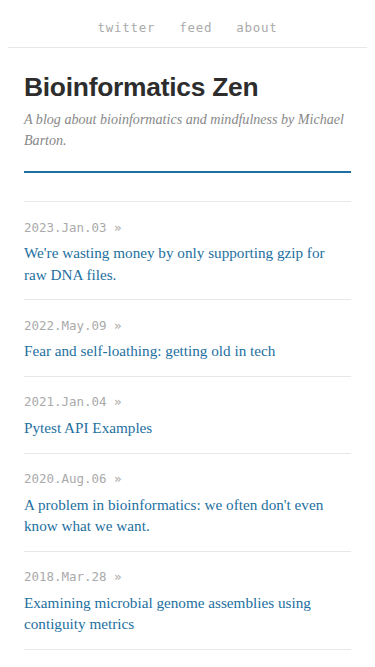
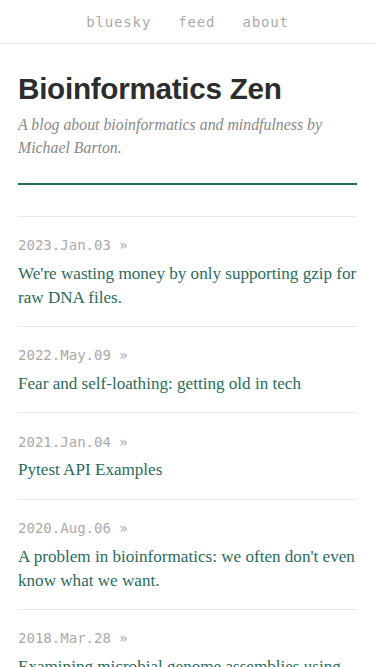
Standardize fonts, colours, and hierarchy between landing and post pages
- Remove nav border-bottom: eliminates the double-border stacking against
  the site-title divider on both pages
- Unify site-title border: replace the landing page's 2px teal accent line
  with the same 1px gray used on the compact post-page header
- Remove post-list first-child border-top: redundant with the header divider
  above it
- Unify date styling: match landing-page date colour (#888 $color-text-light)
  and size (0.82rem) to the post-page date — they were #aaa / 0.78rem vs #888 / 0.85rem
- Fix font-size hierarchy: article > header h2 (post title) set to 1.85em so
  it reads distinctly above in-content h2 section headings (now 1.35em);
  mobile overrides follow the same pattern (1.5em / 1.2em)

https://claude.ai/code/session_01SqBpFcUrZFB2UiEpyQsJDg

diff --git a/scss/styles.scss b/scss/styles.scss
@@ -185,7 +185,6 @@ a {
    ============================================ */
 
 .site-nav {
-  border-bottom: 1px solid $color-border;
   padding: 1rem 1.5rem;
   display: flex;
   justify-content: flex-end;
@@ -213,7 +212,7 @@ a {
 .site-title {
   padding-top: 2rem;
   padding-bottom: 1.25rem;
-  border-bottom: 2px solid $color-link;
+  border-bottom: 1px solid $color-border;
   margin-bottom: 0;
 }
 
@@ -269,7 +268,7 @@ header {
 
   // This is the date part of each page
   time {
-    font-size: 0.85rem;
+    font-size: 0.82rem;
     color: $color-text-light;
     font-style: italic;
     font-family: $font-mono;
@@ -300,9 +299,16 @@ h2 {
   font-family: $font-heading;
   margin-top: 2.25em;
   margin-bottom: 0.5em;
-  font-size: 1.55em;
+  font-size: 1.35em;
   font-weight: 700;
   line-height: 1.3;
+}
+
+// Post title — larger than in-content section headings
+article > header h2 {
+  font-size: 1.85em;
+  margin-top: 0.5em;
+  margin-bottom: 0.3em;
 }
 
 h3 {
@@ -375,14 +381,10 @@ ul.index {
     list-style: none;
     margin-bottom: 0;
 
-    &:first-child {
-      border-top: 1px solid $color-border;
-    }
-
     span {
-      font-size: 0.78rem;
+      font-size: 0.82rem;
       font-family: $font-mono;
-      color: $color-text-muted;
+      color: $color-text-light;
       white-space: nowrap;
       flex-shrink: 0;
     }
@@ -599,8 +601,13 @@ figure table {
   }
 
   h2 {
-    font-size: 1.3em;
+    font-size: 1.2em;
     margin-top: 1.75em;
+  }
+
+  article > header h2 {
+    font-size: 1.5em;
+    margin-top: 0.5em;
   }
 
   h3 {
